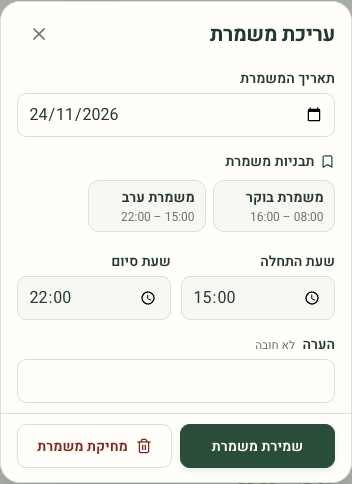
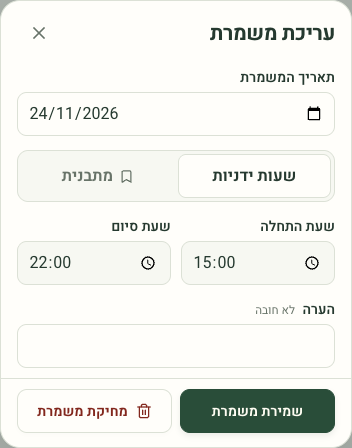
Separate manual shift times from template selection

diff --git a/src/components/ShiftEditor.tsx b/src/components/ShiftEditor.tsx
@@ -153,6 +153,7 @@ export function ShiftEditor({
   const [selections, setSelections] = useState<DaySelection[]>([])
   const [pickingDates, setPickingDates] = useState(false)
   const [pickerFooter, setPickerFooter] = useState<HTMLDivElement | null>(null)
+  const [timeMode, setTimeMode] = useState<'manual' | 'template'>('manual')
   const [selectedTemplateId, setSelectedTemplateId] = useState<string | null>(null)
   const [confirmDelete, setConfirmDelete] = useState(false)
   const [busy, setBusy] = useState(false)
@@ -163,7 +164,8 @@ export function ShiftEditor({
   const deleteButtonRef = useRef<HTMLButtonElement>(null)
   const cancelDeleteRef = useRef<HTMLButtonElement>(null)
   const restoreDeleteFocus = useRef(false)
-  const templateLabelId = useId()
+  const useTemplate = timeMode === 'template' && templates.length > 0
+  const needsTemplate = useTemplate && !templates.some((template) => template.id === selectedTemplateId)
 
   const days = [day, ...selections.map((selection) => selection.date)].filter(Boolean)
   const endOffset = day ? manualEndOffset(day, start, end, editing ? initial : undefined) : 0
@@ -223,7 +225,7 @@ export function ShiftEditor({
 
   async function submit(event: FormEvent) {
     event.preventDefault()
-    if (busy || pickingDates || confirmDelete) return
+    if (busy || pickingDates || confirmDelete || needsTemplate) return
     setError('')
     try {
       const change = buildManualShiftWrites({ date: day, start, end, note, initial, selections, shifts })
@@ -284,45 +286,51 @@ export function ShiftEditor({
               />
             </label>
             {templates.length > 0 && (
-              <div className="se-template-picker">
-                <span className="se-field-label" id={templateLabelId}>
-                  <Bookmark size={15} aria-hidden="true" /> תבניות משמרת
-                </span>
-                <div className="se-templates" role="group" aria-labelledby={templateLabelId}>
-                  {templates.map((template) => (
-                    <button key={template.id} type="button" aria-pressed={selectedTemplateId === template.id} onClick={() => applyTemplate(template)}>
-                      <span>{template.title}</span>
-                      <small>
-                        <TimeRange start={template.start} end={template.end} />
-                        {template.end < template.start && ' · למחרת'}
-                      </small>
-                      <Check size={15} className="se-template-check" aria-hidden="true" />
-                    </button>
-                  ))}
-                </div>
+              <div className="se-time-mode" role="group" aria-label="אופן בחירת שעות">
+                <button type="button" aria-pressed={!useTemplate} onClick={() => setTimeMode('manual')}>
+                  שעות ידניות
+                </button>
+                <button type="button" aria-pressed={useTemplate} onClick={() => setTimeMode('template')}>
+                  <Bookmark size={15} aria-hidden="true" /> מתבנית
+                </button>
               </div>
             )}
-            <div className="se-grid se-shift-times">
-              <ClockField
-                title="שעת התחלה"
-                foldDates={days}
-                value={start}
-                change={(value) => {
-                  setStart(value)
-                  setSelectedTemplateId(null)
-                }}
-              />
-              <ClockField
-                title="שעת סיום"
-                foldDates={finishFoldDates}
-                value={end}
-                change={(value) => {
-                  setEnd(value)
-                  setSelectedTemplateId(null)
-                }}
-                hint={finishHint}
-              />
-            </div>
+            {useTemplate ? (
+              <div className="se-templates" role="group" aria-label="תבניות משמרת">
+                {templates.map((template) => (
+                  <button key={template.id} type="button" aria-pressed={selectedTemplateId === template.id} onClick={() => applyTemplate(template)}>
+                    <span>{template.title}</span>
+                    <small>
+                      <TimeRange start={template.start} end={template.end} />
+                      {template.end < template.start && ' · למחרת'}
+                    </small>
+                    <Check size={15} className="se-template-check" aria-hidden="true" />
+                  </button>
+                ))}
+              </div>
+            ) : (
+              <div className="se-grid se-shift-times">
+                <ClockField
+                  title="שעת התחלה"
+                  foldDates={days}
+                  value={start}
+                  change={(value) => {
+                    setStart(value)
+                    setSelectedTemplateId(null)
+                  }}
+                />
+                <ClockField
+                  title="שעת סיום"
+                  foldDates={finishFoldDates}
+                  value={end}
+                  change={(value) => {
+                    setEnd(value)
+                    setSelectedTemplateId(null)
+                  }}
+                  hint={finishHint}
+                />
+              </div>
+            )}
             <NoteField value={note} onChange={setNote} />
           </fieldset>
         )}
@@ -347,7 +355,7 @@ export function ShiftEditor({
               </div>
             ) : (
               <div className="se-save-actions">
-                <button type="submit" className="btn primary" disabled={busy}>
+                <button type="submit" className="btn primary" disabled={busy || needsTemplate}>
                   {busy ? 'שומר…' : days.length > 1 ? 'שמירת ' + days.length + ' משמרות' : 'שמירת משמרת'}
                 </button>
                 {editing ? (
@@ -363,7 +371,7 @@ export function ShiftEditor({
                     ref={pickerButtonRef}
                     className="btn secondary"
                     type="button"
-                    disabled={busy || !day}
+                    disabled={busy || !day || needsTemplate}
                     onClick={() => setPickingDates(true)}
                   >
                     <CalendarPlus size={17} aria-hidden="true" />

diff --git a/src/components/calendar.css b/src/components/calendar.css
@@ -138,19 +138,32 @@
   padding-inline: 0.2rem;
   background: var(--tint);
 }
-.se-template-picker {
+.se-time-mode {
   display: grid;
-  gap: 0.4rem;
-  min-width: 0;
-  font-size: 0.875rem;
+  grid-template-columns: repeat(2, minmax(0, 1fr));
+  gap: 0.25rem;
+  padding: 0.2rem;
+  border: 1px solid var(--line);
+  border-radius: 0.7rem;
+  background: var(--paper);
 }
-.se-template-picker > .se-field-label {
+.se-time-mode button {
   display: flex;
   align-items: center;
+  justify-content: center;
   gap: 0.35rem;
+  min-height: 44px;
+  border: 1px solid transparent;
+  border-radius: 0.5rem;
+  background: transparent;
+  color: var(--muted);
+  font-weight: 650;
+  cursor: pointer;
 }
-.se-template-picker > .se-field-label svg {
-  color: var(--green);
+.se-time-mode button[aria-pressed='true'] {
+  border-color: var(--line);
+  background: var(--card);
+  color: var(--ink);
 }
 .se-templates {
   display: flex;

diff --git a/README.md b/README.md
@@ -17,7 +17,7 @@
 | מסך | מה עושים בו |
 | --- | --- |
 | **היום שלי** | מתחילים ומסיימים משמרת, רושמים הפסקות ורואים שעות ושכר לכל משמרת ברשימה השבועית. לכל משמרת מתוכננת מוצג השכר הצפוי. לצד השעון מופיעים הברוטו של החודש הקודם, אומדן הנטו שנצבר החודש, שמוצג בהבלטה, והתחזית לסופו. |
-| **יומן המשמרות** | בודקים מה עבדתם ומה מתוכנן, מזינים שעות בדיעבד ומחילים אותן שעות על כמה ימים. בכל שורה מופיע השכר למשמרת כולה או השכר הצפוי למשמרת מתוכננת. משמרת שחוצה חצות מופיעה ביומן ביום שבו התחילה, עם כל שעות העבודה והשכר שלה. בטופס המשמרת אפשר למלא את השעות בלחיצה על תבנית ולהוסיף הערה ישירות. בעריכת משמרת קיימת אפשר למחוק אותה אחרי אישור מפורש. |
+| **יומן המשמרות** | בודקים מה עבדתם ומה מתוכנן, מזינים שעות בדיעבד ומחילים אותן שעות על כמה ימים. בכל שורה מופיע השכר למשמרת כולה או השכר הצפוי למשמרת מתוכננת. משמרת שחוצה חצות מופיעה ביומן ביום שבו התחילה, עם כל שעות העבודה והשכר שלה. בטופס המשמרת מוצגות כברירת מחדל שעות ידניות. אפשר לעבור לבחירה מתבנית ולהוסיף הערה ישירות. בעריכת משמרת קיימת אפשר למחוק אותה אחרי אישור מפורש. |
 | **השכר שלי** | בוחרים חודש ומשווים בין מה שנצבר בפועל לבין התחזית הכוללת משמרות מתוכננות. הדוח מפרט ברוטו, נטו משוער, ניכויים ושעות נוספות. אפשר להזין נתוני תלוש לחודש שנבחר, כולל חודשים קודמים. |
 | **הגדרות** | מעדכנים את שאלון השכר, נקודות זיכוי, הגדרות פנסיה, תעריפים לפי תאריך, ימי מנוחה וחגים ותבניות משמרת. לחיצה על תבנית פותחת עריכה של השם ושעות המשמרת בחלון קצר. אפשר לבחור מראה בהיר, כהה, מרווה או התאמה למכשיר. |
 
@@ -42,7 +42,7 @@
 
 - **ניהול משמרת** · [שעון נוכחות פעיל](docs/screenshots/clock-active-fox.png) · [סיכום משמרת](docs/screenshots/shift-finished-mobile.png) · [פרטי משמרת](docs/screenshots/shift-detail-mobile.png)
 - **תבניות משמרת** · [רשימת תבניות בנייד](docs/screenshots/shift-templates-mobile.png) · [עריכת תבנית](docs/screenshots/shift-template-edit-mobile.png)
-- **תכנון ועריכה** · [הוספת משמרת](docs/screenshots/shift-editor-mobile.png) · [עריכת משמרת](docs/screenshots/shift-edit-actions-mobile.png) · [אישור מחיקה](docs/screenshots/shift-delete-confirm-mobile.png) · [בחירת ימים נוספים](docs/screenshots/shift-day-picker-mobile.png) · [בחירת חודש ושנה בדוח](docs/screenshots/salary-month-picker.png)
+- **תכנון ועריכה** · [הוספת משמרת בשעות ידניות](docs/screenshots/shift-editor-mobile.png) · [בחירת תבנית](docs/screenshots/shift-editor-template-mobile.png) · [עריכת משמרת](docs/screenshots/shift-edit-actions-mobile.png) · [אישור מחיקה](docs/screenshots/shift-delete-confirm-mobile.png) · [בחירת ימים נוספים](docs/screenshots/shift-day-picker-mobile.png) · [בחירת חודש ושנה בדוח](docs/screenshots/salary-month-picker.png)
 - **חשבון** · [מסך היום בנייד](docs/screenshots/today-mobile.png) · [תשובות לשאלון השכר](docs/screenshots/pay-questionnaire-settings.png) · [פרטי שכר וניכויים בהגדרות](docs/screenshots/payroll-settings-mobile.png)
 - **מצב כהה** · [מסך היום](docs/screenshots/today-dark.png) · [יומן המשמרות](docs/screenshots/calendar-dark.png) · [דוח השכר בנייד](docs/screenshots/salary-dark-mobile.png)
 
